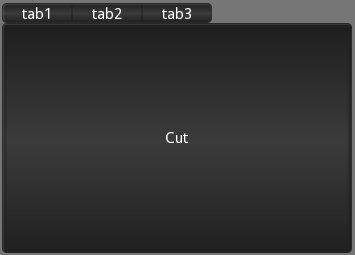
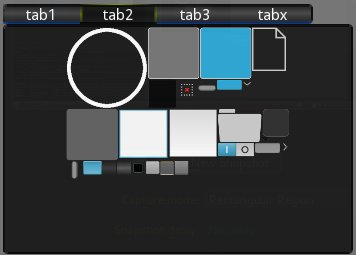
try and improve graphics

diff --git a/kivy/uix/tabbedpannel.py b/kivy/uix/tabbedpannel.py
@@ -166,7 +166,7 @@ class TabbedPannel(GridLayout):
     '''
 
     background_image =\
-        StringProperty('atlas://data/images/defaulttheme/bubble')
+        StringProperty('tools/theming/defaulttheme/tab.png')
     '''Background image of the Tab content
 
     :data:`background_image` is a :class:`~kivy.properties.StringProperty`,

diff --git a/examples/widgets/tabbed_panel_test.py b/examples/widgets/tabbed_panel_test.py
@@ -33,7 +33,6 @@ Builder.load_string('''
             id: cut
             pos:self.parent.pos
             size: self.parent.size
-            padding: 3
             TextInput:
                 text: 'everything is relative!'
             BubbleButton:
